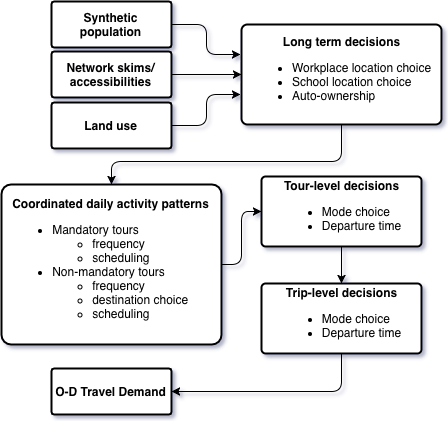
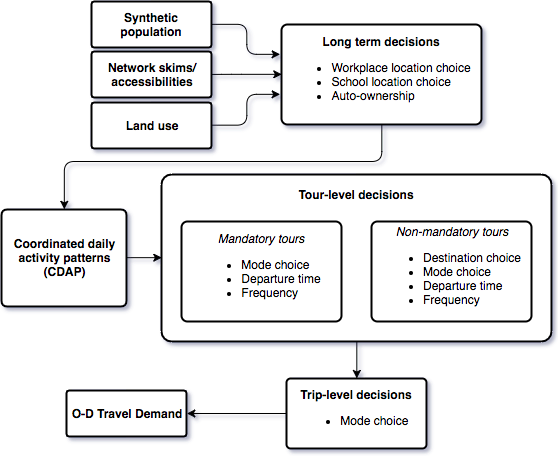
revisions

Changed region(s): [[0.0, 0.0, 1.0, 1.0]]

diff --git a/sections/4_network.tex b/sections/4_network.tex
@@ -8,36 +8,34 @@ The network data in this modeling pipeline come from OpenStreetMap. OpenStreetMa
 
 The network is created using OSMnx, an open-source Python package for working with OpenStreetMap data \citep{boeing_osmnx:_2017}. OSMnx is built on top of NetworkX, a Python package for network analysis developed by researchers at Los Alamos National Laboratory. OSMnx extends NetworkX's network analysis capabilities by working explicitly with spatial infrastructure networks and interfacing with OpenStreetMap's various APIs. It can automatically construct topologically-corrected nonplanar directed multigraphs constrained to any polygonal boundaries for anywhere in the world from OpenStreetMap data. OSMnx uses a multistep algorithm to simplify the topology of the graph so that it retains nodes only at intersections and dead-ends, as well as the full geometry of the simplified edges, as shown in Figure \ref{fig:simplification_before_after}.
 
-\begin{figure}[ht]
-\center
-\includegraphics[width=\textwidth]
-{graphics/simplification_before_after.png}
-\caption{A suburban street network from OpenStreetMap data before OSMnx topology simplification (left) and after (right), with nodes in black and edges in gray. Note that the full spatial geometry is retained as edge metadata even though the edge itself is compressed to a single pair of origin and destination nodes.}
-\label{fig:simplification_before_after}
+\begin{figure}[htbp]
+    \center
+    \includegraphics[width=\textwidth]
+    {graphics/simplification_before_after.png}
+    \caption{A suburban street network from OpenStreetMap data before OSMnx topology simplification (left) and after (right), with nodes in black and edges in gray. Note that the full spatial geometry is retained as edge metadata even though the edge itself is compressed to a single pair of origin and destination nodes.}
+    \label{fig:simplification_before_after}
 \end{figure}
 
 We use OSMnx to download the road network for the nine-county San Francisco Bay Area. We use the 2016 US Census Bureau TIGER/Line shapefile of United States counties to define the spatial extents of these nine counties: Alameda, Contra Costa, Marin, Napa, San Francisco, San Mateo, Santa Clara, Solano, and Sonoma. We use a convex hull around these geometries to get a single polygon for the spatial query – this prevents the query from discarding any network elements that fall within our study area but outside of a county's borders (for example, bridges over the San Francisco Bay).
 
 Next, we use OSMnx to download the drivable road network within this convex hull. OSMnx uses detailed metadata tags to identify which paths are drivable. It then constructs it into a graph. This initial graph contains 1.2 million nodes and 2.3 million edges. Next we filter the road network to retain only tertiary roads and larger. In OpenStreetMap terminology, the road types we retain comprise: motorway, motorway\textunderscore link, trunk, trunk\textunderscore link, primary, primary\textunderscore link, secondary, secondary\textunderscore link, tertiary, tertiary\textunderscore link, unclassified, and road. The \enquote{link} types are necessary to retain the connectors (such as on-ramps and off-ramps) between certain roads. The \enquote{road} type is standardly used in the OpenStreetMap community as a null value. The \enquote{unclassified} type technically refers to the British-style roads hierarchy, in which \enquote{unclassified} is the level below \enquote{tertiary} – that is, quaternary. However, it sometimes is used inconsistently in the United States, so we retain it for completeness.
 
-\begin{figure}[ht]
-\center
-\includegraphics[width=0.7\textwidth]
-{graphics/bay_area_network.png}
-\caption{The nine-county San Francisco Bay Area road network used in our modeling pipeline, created by OSMnx from OpenStreetMap data.}
-\label{fig:bay_area_road_network}
+\begin{figure}[htbp]
+    \center
+    \includegraphics[width=\textwidth]
+    {graphics/bay_area_network.png}
+    \caption{The nine-county San Francisco Bay Area road network used in our modeling pipeline, created by OSMnx from OpenStreetMap data.}
+    \label{fig:bay_area_road_network}
 \end{figure}
 
 After filtering out all edges not of these major types, we remove all isolated nodes then keep only the largest weakly connected component of the graph. Finally, we simplify the graph using OSMnx then save it to disk as a GraphML file. GraphML is a standard, XML-based file format for storing and exchanging complete graph structure data. Our final graph contains 31,000 nodes and 66,000 directed edges representing 20,000 kilometers of roads across 9 counties, as seen in Figure \ref{fig:bay_area_road_network}.
 
 \subsection{BPR coefficients calculation and assumptions}
-\todoEmily{explain what BPR are}
-\todoEmily{explain the BPR coefficients in either narrative or math}
-Once we have the final processed graph of the Bay Area road network, we calculate the BPR (Bureau of Public Roads) curves' coefficients $a_0$, $a_1$, $a_2$, $a_3$, and $a_4$ for it. The BPR function is defined as:
+To define the relationship between link travel time and link congestion we use the Bureau of Public Roads (BPR) congestion function. This BPR function has long been used by transportation engineers to model the increased time needed to traverse a link when congestion is high. Once we have the final processed graph of the Bay Area road network, we calculate the BPR  curves' coefficients $a_0$, $a_1$, $a_2$, $a_3$, and $a_4$ for it. The BPR function is defined as:
 
 \bigskip
 \begin{equation}
-    t_i = t0_i (1 + \alpha (\frac{v_i}{c_i}) ^ \beta)
+    t_i = t^0_i (1 + \alpha (\frac{v_i}{c_i}) ^ \beta)
     \label{eq:bpr_function}
 \end{equation}
 
@@ -46,19 +44,19 @@ where:
 
 \bigskip
 \begin{itemize}
-    \item $t_i$ represents the congested flow travel time on edge $i$
-    \item $t0_i$ represents the free-flow travel time on edge $i$
-    \item $v_i$ represents the volume of traffic on edge $i$ per unit of time (flow attempting to use edge $i$)
-    \item $c_i$ represents the capacity of edge $i$ per unit of time
-    \item $\alpha$ represents the alpha parameter
-    \item $\beta$ represents the beta parameter, the exponent of the power function
+    \item $t_i$ is the congested flow travel time on edge $i$
+    \item $t^0_i$ is the free-flow travel time on edge $i$
+    \item $v_i$ is the number of vehicles on edge $i$ per unit of time 
+    \item $c_i$ is the capacity (i.e. maximum number of vehicles) of edge $i$  per unit of time
+    \item $\alpha$ linearly increases the congested travel time w.r.t. the volume: capacity ratio
+    \item $\beta$ exponentially increases the congested travel time w.r.t. the volume: capacity ratio
 \end{itemize}
 
 \bigskip
 The alpha parameter was assigned a value of 0.15 in the original BPR curve, and the beta parameter was assigned a value of 4 in the original BPR curve. We adopt these default alpha and beta parameter values in this integrated modeling pipeline, but note that they are not the only way to parameterize this function. For instance, the TRB's NHCRP Report 716: Travel Demand Forecasting Parameters and Techniques provides various coefficients estimated using the 1985 Highway Capacity Manual \citep[p.~75]{transportation_research_board_highway_1985,transportation_research_board_travel_2012}.
 
 \bigskip
-Given this function, we define the coefficients $a_0$, $a_1$, $a_2$, and $a_3$ as:
+Given this function, we further define the coefficients $a_0$, $a_1$, $a_2$, and $a_3$ as:
 
 \bigskip
 \begin{itemize}
@@ -70,7 +68,7 @@ Given this function, we define the coefficients $a_0$, $a_1$, $a_2$, and $a_3$ a
 Finally, we calculate the cofficient $a_4$ as:
 
 \begin{equation}
-    a_4 = t0_i \frac{\alpha}{c_i ^ {\beta}}
+    a_4 = t^0_i \frac{\alpha}{c_i ^ {\beta}}
     \label{eq:bpr_a4_coefficient}
 \end{equation}
 
@@ -80,7 +78,7 @@ First, for each edge that is missing number of lanes data, we impute the value b
 
 \bigskip
 \begin{equation}
-    t0_i = \frac{d_i}{s_i}
+    t^0_i = \frac{d_i}{s_i}
     \label{eq:free_flow_travel_time}
 \end{equation}
 
@@ -89,9 +87,9 @@ where:
 
 \bigskip
 \begin{itemize}
-    \item $t0_i$ represents the free-flow travel time in seconds on edge $i$
-    \item $d_i$ represents distance, that is, the length of edge $i$ in units of meters
-    \item $s_i$ represents free-flow speed, that is, the maximum permitted speed of travel on edge $i$ in units of meters per second
+    \item $t^0_i$ represents free-flow travel time on edge $i$, [seconds]
+    \item $d_i$ represents the length of edge $i$, [meters]
+    \item $s_i$ represents free-flow speed (i.e. the maximum possible speed of travel) on edge $i$, [meters per second]
 \end{itemize}
 
 \bigskip

diff --git a/sections/2_urbansim.tex b/sections/2_urbansim.tex
@@ -60,33 +60,34 @@ The original design of UrbanSim adopted several elements to address these implem
 The key features of the UrbanSim model and its software implementation are highlighted in Table \ref{tab:key-features}. The model departs from prior operational land use models based on cross-sectional, equilibrium, aggregate approaches to adopt an approach that models individual households, jobs, buildings and parcels (or census blocks or zones), and their changes from one year to the next as a consequence of economic changes, policy interventions, and market interactions.
 
 \begin{table}[htbp]
-    \caption{Key features of UrbanSim}
-    \label{tab:key-features}
-    \begin{center}
-    \begin{tabular}{ p{0.25\textwidth} p{0.75\textwidth} }
+\caption{Key features of UrbanSim}
+\label{tab:key-features}
+\begin{center}
+\begin{tabular}{ p{0.2\textwidth} p{0.7\textwidth} }
     \toprule
     
-    \multirow[c]{10}{0.25\textwidth}{Key Features of the UrbanSim Model System} & $\bullet$ The model simulates the key decision makers and choices impacting urban development; in particular, the mobility and location choices of households and businesses, and the development choices of developers\\
-    & $\bullet$ The model explicitly accounts for land, structures (houses and commercial buildings), and occupants (households and businesses)\\
-    & $\bullet$ The model simulates urban development as a dynamic process over time and space, as opposed to a cross-sectional or equilibrium approach\\
-    & $\bullet$ The model simulates the land market as the interaction of demand (locational preferences of businesses and households) and supply (existing vacant space, new construction, and redevelopment), with prices and rents adjusting to clear market\\
+    \multirow[c]{10}{0.2\textwidth}{Key features of the UrbanSim model system}
+    & $\bullet$ Simulates the key decision makers and choices impacting urban development; in particular, the mobility and location choices of households and businesses, and the development choices of developers\\
+    & $\bullet$ Explicitly accounts for land, structures (houses and commercial buildings), and occupants (households and businesses)\\
+    & $\bullet$ Simulates urban development as a dynamic process over time and space, as opposed to a cross-sectional or equilibrium approach\\
+    & $\bullet$ Simulates the land market as the interaction of demand (locational preferences of businesses and households) and supply (existing vacant space, new construction, and redevelopment), with prices and rents adjusting to clear market\\
     & $\bullet$ Housing markets are separated by tenure (owner and rental) as well as building type to represent the key differences on housing affordability and the impacts of increases in property values on the occupants of housing\\
-    & $\bullet$ Housing supply decisions are modeled at the parcel level using development feasibility analysis (pro forma models) used to evaluate the return on investment of a development project, considering its hard and soft costs as well as expected revenues from sale or from a stream of rents, discounted to the present\\
-    & $\bullet$ The model incorporates governmental policy assumptions explicitly, and evaluates policy impacts by modeling market responses\\
-    & $\bullet$ The model is based on random utility theory and uses logit models for the implementation of key demand components\\
-    & $\bullet$ The model is designed for high levels of spatial and activity disaggregation, with a zonal system identical to travel model zones\\
-    & $\bullet$ The model presently addresses both new development and redevelopment, using parcel-level detail\\
+    & $\bullet$ Models housing supply decisions at the parcel level using development feasibility analysis (pro forma models) used to evaluate the return on investment of a development project, considering its hard and soft costs as well as expected revenues from sale or from a stream of rents, discounted to the present\\
+    & $\bullet$ Incorporates governmental policy assumptions explicitly, and evaluates policy impacts by modeling market responses\\
+    & $\bullet$ Based on random utility theory and uses logit models for the implementation of key demand components\\
+    & $\bullet$ Designed for high levels of spatial and activity disaggregation, with a zonal system identical to travel model zones\\
+    & $\bullet$ Presently addresses both new development and redevelopment, using parcel-level detail\\
     
     \midrule
     
-    \multirow[c]{3}{0.25\textwidth}{Key Features of the UrbanSim Software Implementation}
+    \multirow[c]{3}{0.2\textwidth}{Key features of the UrbanSim software implementation}
     & $\bullet$ The model system runs on the cloud and uses a web browser for the User Interface\\
-    & $\bullet$ The UrbanSim model system software is Open Source, at https://github.com/UDST/urbansim\\
+    & $\bullet$ The UrbanSim model system software is open source, at https://github.com/UDST/urbansim\\
     & $\bullet$ The user interface focuses on creating, running and evaluating policy scenarios\\
     
     \bottomrule
-    \end{tabular}
-    \end{center}
+\end{tabular}
+\end{center}
 \end{table}
 
 \subsection{Intended uses of the model system}
@@ -187,10 +188,10 @@ The data inputs and outputs for operating the UrbanSim model are shown in Table 
     \caption{Data inputs and outputs of UrbanSim}
     \label{tab:inputs-outputs}
     \begin{center}
-    \begin{tabular}{ p{0.3\textwidth} p{0.7\textwidth} }
+    \begin{tabular}{ p{0.25\textwidth} p{0.7\textwidth} }
     \toprule
     
-    \multirow{9}{0.3\textwidth}{UrbanSim Inputs}
+    \multirow{9}{0.25\textwidth}{UrbanSim inputs}
     & $\bullet$ Employment data, usually in the form of geocoded business establishments, but alternatively from zonal employment by sector\\
     & $\bullet$ Household data, merged from multiple census sources\\
     & $\bullet$ Parcel database, with acreage, land use, housing units, non-residential square footage, year built, land value, improvement value, city and county\\
@@ -203,7 +204,7 @@ The data inputs and outputs for operating the UrbanSim model are shown in Table 
     
     \midrule
     
-    \multirow{6}{0.3\textwidth}{UrbanSim Outputs summarized by Parcel, Census Block, Traffic Analysis Zone, and Municipality}
+    \multirow{6}{0.25\textwidth}{UrbanSim outputs summarized by parcel, census block, traffic analysis zone, and municipality}
     & $\bullet$ Households by income, age, size, and presence of children\\
     & $\bullet$ Employment by industry and land use type\\
     & $\bullet$ Acreage by land use\\
@@ -213,7 +214,7 @@ The data inputs and outputs for operating the UrbanSim model are shown in Table 
     
     \midrule
     
-    \multirow{4}{0.3\textwidth}{Travel Model Outputs (Zone-to-Zone) Used in UrbanSim}
+    \multirow{4}{0.25\textwidth}{Travel model outputs (zone-to-zone) used in UrbanSim}
     & $\bullet$ Travel time by mode by time of day by purpose\\
     & $\bullet$ Trips by mode by time of day by purpose\\
     & $\bullet$ Composite utility of travel using all modes by purpose \\

diff --git a/sections/5_ta.tex b/sections/5_ta.tex
@@ -8,7 +8,6 @@ The primary inputs used by the traffic assignment model are the network (includi
 
 
 \subsubsection{The network}
-\todoEmily{math description of a path}
 The network infrastructure is based on a set of nodes and edges in which connected edges share a node. Vehicles are allowed to travel from one edge to another if the edges are connected via node. The ordered set of these edges (in which the ordering denotes a shared node between two edges) are called a path. In order for vehicles to move from their origin to their destination, they must take a particular path. The possible paths between origins and destinations are defined by the topology of the network (i.e. the number of edges, the number of nodes, and the connections between nodes and edges). The network described in \Cref{network} is used as the foundation of the traffic assignment model. \todoEmily{read network section and make sure demands and associated ODs are described in a way that is consistent with this section}
 
 
@@ -18,15 +17,23 @@ The BPR coefficients computed previously are used to assign a pseudo travel time
 
 \subsection{How it works/what it does}
 The currently implemented version of the traffic assignment model determines a static user equilibrium using the Frank-Wolfe algorithm. Static traffic assignment does not consider time varying parameters of any kind so there is no concept of \enquote{flow dynamics} but there is a well defined equilibrium. Static user equilibrium, often called Wardrop’s first principle in the transportation literature, is a well defined state in which all vehicles take the shortest path from their origin to their destination. The resulting traffic assignment is based on shortest paths that are calculated while considering the travel times resulting from a loaded network in which each user is attempting to minimize their travel time. 
-Wardrop's first principle states that the actual travel time experienced by a user in the network is equal or less than the travel time that the same driver would experience on any other route. User equilibrium is equivalent to Nash equilibrium.
-\todoEmily{cite wardrop}
-\todoEmily{define SUE in math} To perform this static user equilibrium calculation we use the Frank-Wolfe algorithm. \todoEmily{add some pseudocode and a short narrative about FW}
+Wardrop's first principle states that the actual travel time experienced by a user in the network is equal or less than the travel time that the same driver would experience on any other route \pcite{wardrop1952road}. Static user equilibrium, which is equivalent to Nash equilibrium, is defined below.
+\begin{equation}
+\begin{split}
+\min \sum_{e\in\ \textit{edges}}\int_{0}^{v_e} S_e(x) dx\\
+\text{subject to} \\ 
+v_e = \sum_i \sum_j \sum_r \alpha_{ij}^{er} x_{ij}^{r}\\
+\sum_r x_{ij}^{r} = T_{ij}\\
+v_e \geq 0 \\
+x_{ij}^{r} \geq 0
+\end{split}
+\end{equation}
+The minimization is over travel time on each link as a function of traffic volume. $x_{ij}^{r}$ is the number of vehicles on path $r$ from node $i$ to node $j$. $\alpha_{ij}^{ar}$ is equal to 1 if link $a$ is contained in path $r$ and 0 otherwise.  To perform this static user equilibrium calculation we use the Frank-Wolfe algorithm \cite{frank1956algorithm}. The Frank-Wolfe algorithm is a first order optimization algorithm that is used to solve convex problems such as the static user equilibrium problem defined above.
 
 
 \subsection{Outputs}
-\todoEmily{explain to what extent the resulting travel times are travel times }
-From the traffic assignment model, we obtain the number of vehicles on each link in the network and the resulting travel time (calculated using the BPR coefficient) of each link. These travel times are used to generate "congestion skims" in which the congestion on each link in the network is known, and therefore areas of high versus low congestion can be specified. These outputs are used by ActivitySim. \todoEmily{Read the activitysim section and make sure this is cohesive with what was said there. Add figures.} \todoEmily{edge weights for pandana to calculate accessibility - even if it's not exactly time, comparatively still useful }
+From the traffic assignment model, we obtain the number of vehicles on each link in the network and the resulting travel time (calculated using the BPR coefficients) of each link. Since these travel times are a result of a static traffic assignment, they are not interpretable as exact travel times - rather, they represent the congested travel time of each link calculated using the BPR equations. As described previously, these BPR function are empirical. These travel times are used to generate "congestion skims" in which the congestion on each link in the network is known, and therefore areas of high versus low congestion can be specified. These outputs are used by ActivitySim. ActivitySim uses these congested edge travel times to calculate accessibility. For these calculations, the precise definition of travel time is not necessary, the comparison between edges is the important component.
 
 
 \subsection{Calibration and validation}
-In its current implementation, the traffic assignment model is static - meaning that back propagation of congestion and other time dependent phenomena observed in real transportation networks cannot be well modelled. However, the resulting travel times due to loading on each link can be compared with real data to understand how well the static approximation matches with the observed travel times on a network. \todoEmily{explain how to compare static model and non-static observed data - Flow}
+In its current implementation, the traffic assignment model is static - meaning that back propagation of congestion and other time dependent phenomena observed in real transportation networks cannot be well modelled. However, the resulting travel times due to loading on each link can be compared with real data to understand how well the static approximation matches with the observed travel times on a network. 

diff --git a/sections/6_conclusion.tex b/sections/6_conclusion.tex
@@ -13,13 +13,9 @@ This approach to integrated modeling offers several future benefits. It will all
 By creating the combined models with sufficient performance to simulate the feedback of land use and travel and congestion annually rather than every 5 to 10 years, a variety of alternative scenarios could be developed and explored that couple land use policies. Examples include: transit oriented development with transportation networks emphasizing transit, or more efficient highway projects coupled with supporting land use policies, with evaluation of the induced demand effects of both. Policies that affect parking construction and management, or which begin to explore the potential impacts of greater adoption of ride hailing services and eventually autonomous vehicles, could also be incorporated as data availability permits.
 
 \subsection{Connections to energy use}
-
-\todoEmily{cite papers that connect emissions and travel time}
-One objective of this work, in which we jointly consider long term land use, short term activity choices, and traffic assignment, is to observe the energy impacts that result as a consequence of particular decisions. Perhaps the most straightforward way to measure the energy impact of this system is to consider the emissions associated with transportation. Vehicular emissions can be calculated as a function of travel time. In some sense, this is useful even with a static traffic assignment model - in which the results are representative of travel time on each link and can therefore be used to calculate emissions costs. As we move towards a dynamic traffic model, in which the results can be thought of as actual travel times and the effects of dynamic flow in the network are captured, these energy costs will become more precise. \todoEmily{does anyone have data to validate these models? EPA?}
+One objective of this work, in which we jointly consider long term land use, short term activity choices, and traffic assignment, is to observe the energy impacts that result as a consequence of particular decisions. Perhaps the most straightforward way to measure the energy impact of this system is to consider the emissions associated with transportation. Vehicular emissions can be calculated as a function of travel time \pcite{ahn2008effects}. This is useful even with a static traffic assignment model - in which the results are representative of travel time on each link and can therefore be used to calculate emissions costs \pcite{aziz2012integration}. As we move towards a dynamic traffic model, in which the results can be thought of as actual travel times and the effects of dynamic flow in the network are captured, these energy costs will become more precise.
 
 \subsection{Open issues}
-
-\todoEmily{Emily please contribute 1 paragraph about what you have on your agenda to improve (discuss in sufficient technical detail such that is not just redundant with the summary in the future research agenda section below)}
 The primary challenge in traffic assignment involves the transition from static to dynamic. As described above, static user equilibrium is a well defined mathematical notion in which there is a closed form solution and numerous algorithms exist to compute this solution. On the other hand, although many dynamic flow models exist, there is no well defined notion of dynamic user equilibrium. Because of this, it is much less clear whether the results of a dynamic traffic assignment are behaviorally realistic. In order to validate the results from dynamic traffic assignment, these results must be compared with observed data. Although such a comparison can be used to gain an understanding of the performance of the dynamic model, there is no clear definition to understand exactly how well the dynamic assignment is performing. 
 
 The main technical challenge still preventing a deeper integration of our three modeling components relates to the issue of accessibilities/composite utilities. These measures are fundamental to the destination choice models of both UrbanSim and ActivitySim, and must be updated to reflect the latest network impedances as computed during the traffic assignment step. UrbanSim is configured to estimate its own accessibilities directly from a transportation network file using the Pandana Python package. ActivitySim, however, currently expects both an updated skims matrix and an associated set of destination logsums as inputs for its accessibility model step. Because our travel model is not generating any composite utilities beyond travel times, we have no way of updating these inputs [\textit{need to check with Ben Stabler on this point}] to incorporate the latest traffic assignment results for simulations beyond the first iteration. As such, a high priority for us is to reconfigure ActivitySim and all of its sub-models to run on the same Pandana-derived accessibility measures as UrbanSim. This will not only reduce the number of accessibility computations by a factor of two, but it will also significantly reduce the amount of overhead required for post-processing the traffic assignment output.

diff --git a/sections/3_activitysim.tex b/sections/3_activitysim.tex
@@ -8,7 +8,7 @@ ActivitySim requires two main sets of input data, one relating to geography and 
     
 The geographic data is stored at the level of the traffic analysis zone (TAZ) and is comprised of three components: 1) land use characteristics; 2) a matrix of zone-to-zone travel impedances (travel times, distances, or costs) specific to the mode of travel and time of day; and 3) a table of user-defined measures of aggregate utility estimated for each zone. In transportation planning, the zone-level impedances and utility measures are commonly referred to as \textit{skims} and \textit{accessibilities}, respectively. 
 
-The land use data is read directly from UrbanSim outputs. It consists of zone-level population and employment characteristics, along with measures of different land use and building types.
+Land use data consists of zone-level population and employment characteristics, along with measures of different land use and building types. We rely on UrbanSim ois read directly from UrbanSim outputs. It 
 
 Travel skims are typically generated by a traffic assignment model, which ActivitySim is not. ActivitySim instead expects to load the skims from an OMX formatted data file [\textit{citation needed}]. The creation of these skims is described below in the section on traffic assignment.
 
@@ -25,9 +25,9 @@ ActivitySim, like UrbanSim, relies heavily on discrete choice models and Random 
 An ActivitySim run consists of a series of model steps executed sequentially. The individual models can be grouped into the four clusters -- long term decisions, coordinated daily activity patterns, tour-level decisions, and trip-level decisions -- illustrated in Figure 7 and described below:
 \begin{enumerate}[label=(\roman*)]
     \item \textit{Long Term Choice Models}: ActivitySim's three long-term choice models -- workplace location choice, school location choice, and auto-ownership -- model the choices that are not made every day in the real world but have an impact on those that are. These models will eventually be migrated to run directly from the UrbanSim environment so that the time horizons of the two simulation platforms are internally consistent.
-    \item \textit{Coordinated Daily Activity Patterns}: CDAP models include a single model that mimics the group decision-making process for household members seeking to maximize the utility of their daily activities, along with models for scheduling the frequency, duration, and departure times of mandatory and non-mandatory tours. Tours refer to a trip chain
-    \item \textit{Tour-level Decisions}:
-    \item \textit{Trip-level Decisions}:
+    \item \textit{Coordinated Daily Activity Patterns}: The CDAP step models the group decision-making process for individual household members all seeking to maximize the utility of their daily activities together. CDAP takes into consideration mandatory and non-mandatory trips choosing activities to maximize each individual's utilties. The maximization process currently involves the estimation of all possible combinations of all individuals within a household, and is thus has the longest run-time of all ActivitySim models. 
+    \item \textit{Tour-level Decisions}: Tours define chains of trips that are completed together without returning home in between. Mandatory tours include trips to and from work and school, while non-mandatory trips are entirely discretionary. Non-mandatory tour alternatives are specified in a user-defined configuration file, and thus these steps include a destination choice model as well. Mandatory tour alternatives have already been computed by the long term decision models. Each tour type has separate model steps for estimating mode choice, departure time, and frequency of the tour.
+    \item \textit{Trip-level Decisions}: Mode choice must be selected at the level of the individual trip as well as the tour because a given tour may includes different modes for different trip legs. Trip departure and arrival times are estimated as well. The rest of the trip characteristics are inherited from the tours to which a trip belongs. 
 \end{enumerate}
 
  

diff --git a/main.tex b/main.tex
@@ -76,7 +76,6 @@ This technical report constitutes the FY18 Q1 deliverable for the U.S. Departmen
 \import{sections/}{4_network.tex}
 
 \section{Traffic assignment model: static user equilibrium}
-\todoEmily{Emily section}
 \import{sections/}{5_ta.tex}
 
 \section{Conclusion}
